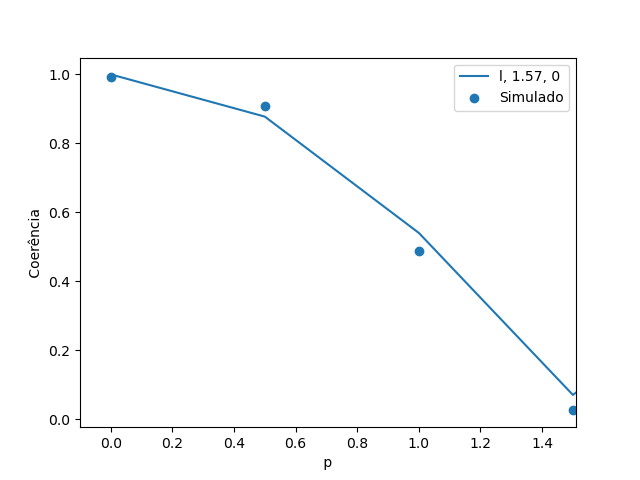
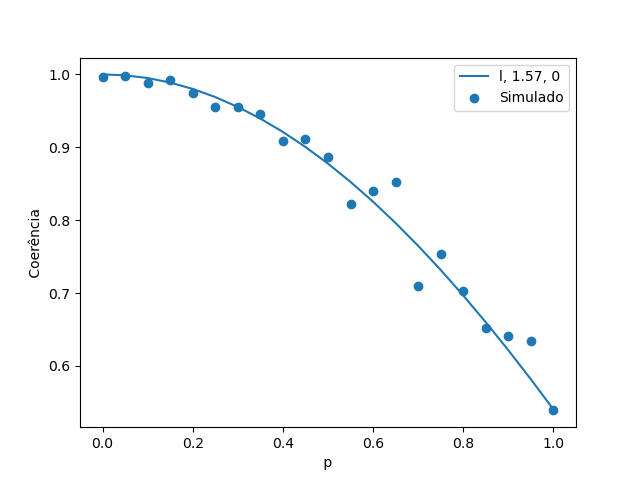
last results

diff --git a/src/theoric_channels.py b/src/theoric_channels.py
@@ -129,11 +129,18 @@ class TheoricMaps():
     @staticmethod
     def theoric_rho_A_adg(theta, phi, p):
         N = 0.5
+
         state = Matrix([[((1-N)*cos(theta/2)+p*(1-N)*(sin(theta/2))**2+N*(1-p)*cos(theta/2)),
-                         2*sqrt(1-p)*exp(-1j*phi)*sin(theta/2)*cos(theta/2)],[
-                         2*sqrt(1-p)*exp(1j*phi)*sin(theta/2)*cos(theta/2), #|010\rangle
-                         ((1-p)+N)*sin(theta/2)**2+p*N*cos(theta/2) #|111\rangle)
-                        ]])
+                        2*sqrt(1-p)*exp(-1j*phi)*sin(theta/2)*cos(theta/2)],[
+                        2*sqrt(1-p)*exp(1j*phi)*sin(theta/2)*cos(theta/2), #|010\rangle
+                        ((1-p)+N)*sin(theta/2)**2+p*N*cos(theta/2) #|111\rangle)
+                       ]])
+
+        #state = Matrix([[((1-N)*cos(theta/2)+p*(1-N)*(sin(theta/2))**2+N*(1-p)*cos(theta/2)),
+        #                 2*sqrt(1-p)*exp(-1j*phi)*sin(theta/2)*cos(theta/2)],[
+        #                 2*sqrt(1-p)*exp(1j*phi)*sin(theta/2)*cos(theta/2), #|010\rangle
+        #                 ((1-p)+N)*sin(theta/2)**2+p*N*cos(theta/2) #|111\rangle)
+        #                ]])
         return state
 
     # def theoric_rho_A_gad(self, theta, phi, p):

diff --git a/src/simulation_with_save.py b/src/simulation_with_save.py
@@ -246,12 +246,12 @@ class Simulate(object):
 
 def main():
     #space = np.linspace(0, 2*pi, )
-    n_qubits = 3
+    n_qubits = 2
     list_p = np.linspace(0,1,21)
-    epochs = 150
-    step_to_start = 80
-    rho_AB = QCH.rho_AB_adg
-    S = Simulate('adg', n_qubits, list_p, epochs, step_to_start, rho_AB)
+    epochs = 180
+    step_to_start = 120
+    rho_AB = QCH.rho_AB_l
+    S = Simulate('l', n_qubits, list_p, epochs, step_to_start, rho_AB)
     S.run_calcs(True, pi/2, 0)
     
     #phis = [0,pi,pi/1.5,pi/2,pi/3,pi/4,pi/5]
